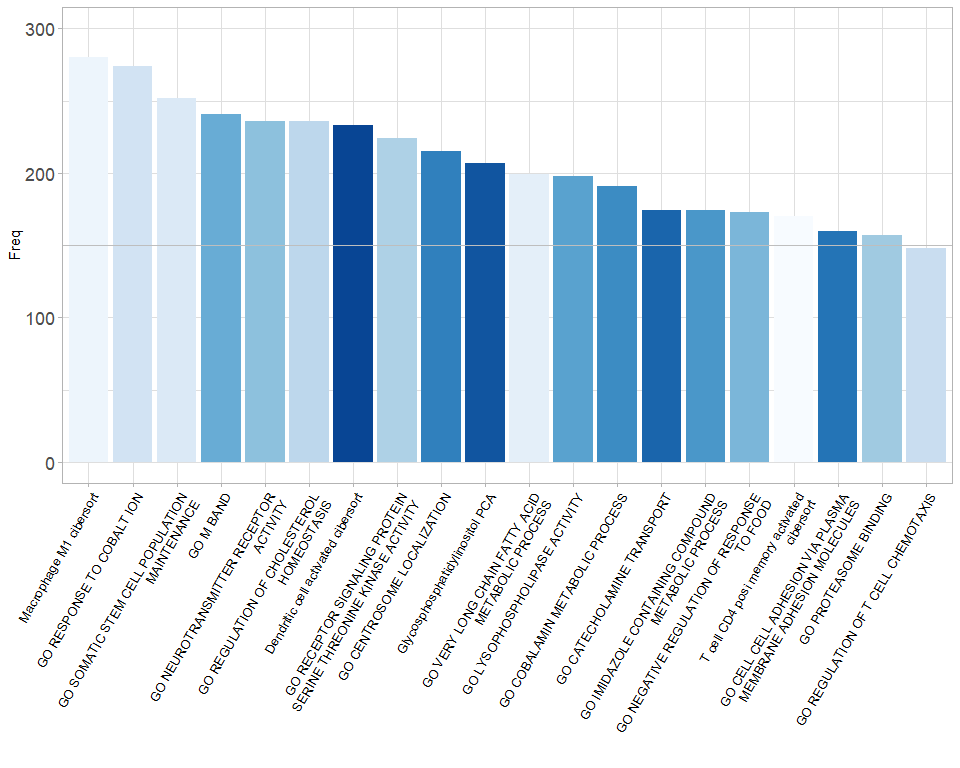
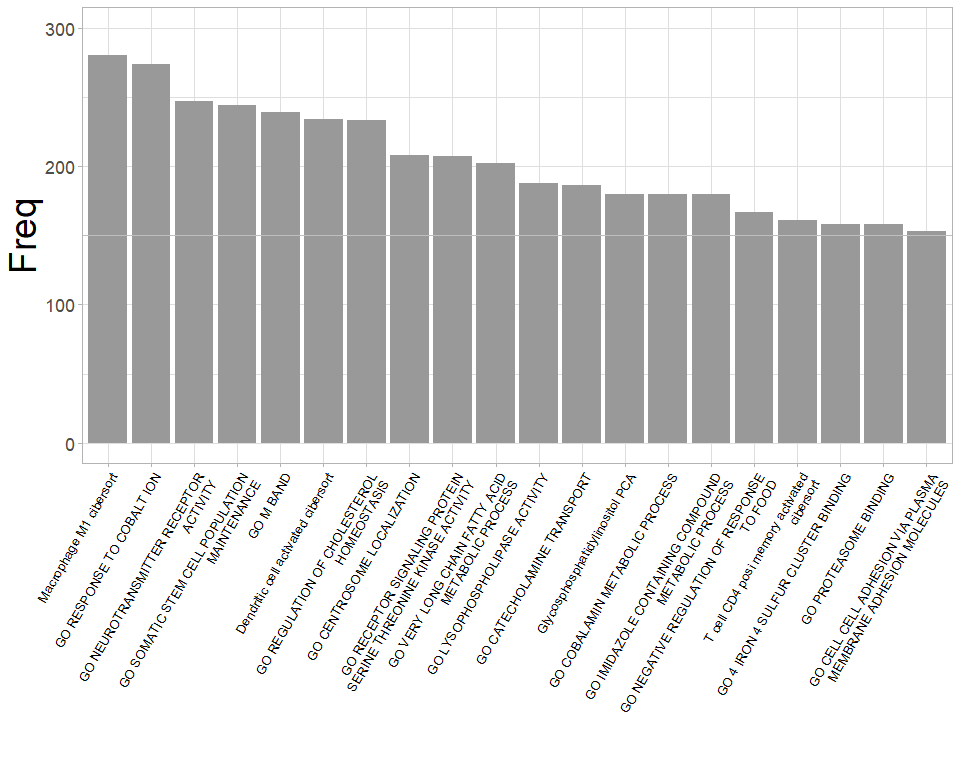
update README

diff --git a/README.md b/README.md
@@ -6,7 +6,6 @@
 The package is not yet on CRAN. You can install from Github:
 
 ``` r
-
 if (!requireNamespace("devtools", quietly = TRUE)) install.packages("devtools")
 if (!requireNamespace("Blasso", quietly = TRUE))  devtools::install_github("DongqiangZeng0808/Blasso")
 ```
@@ -14,7 +13,6 @@ if (!requireNamespace("Blasso", quietly = TRUE))  devtools::install_github("Dong
 Loading packages and main function in the package:
 
 ``` r
-
 library(Blasso) 
 help("best_predictor_cox")
 help("best_predictor_binomial")
@@ -52,15 +50,13 @@ features[1:5,1:5]
 ## Usage-1: Cox-regression model
 
 ``` r
-
 res<-best_predictor_cox(target_data = target, 
                         features = features, 
                         status = "status",
                         time = "time",
                         nfolds = 10,
                         permutation = 300,
-                        show_progress = FALSE,
-                        palette = "Greys")
+                        show_progress = FALSE)
 ```
 
 <img src="man/figuresLassoCox-1.png" width="100%" />
@@ -68,29 +64,27 @@ res<-best_predictor_cox(target_data = target,
 ``` r
 head(res$res, n = 10)
 #>                                                             res Freq
-#> 1                                       Macrophage M1 cibersort  272
-#> 2                                     GO RESPONSE TO COBALT ION  235
-#> 3                      GO REGULATION OF CHOLESTEROL HOMEOSTASIS  218
-#> 4                         GO NEUROTRANSMITTER RECEPTOR ACTIVITY  213
-#> 5            GO IMIDAZOLE CONTAINING COMPOUND METABOLIC PROCESS  198
-#> 6                            Dendritic cell activated cibersort  191
-#> 7                                Glycosphosphatidylinositol PCA  182
-#> 8  GO CELL CELL ADHESION VIA PLASMA MEMBRANE ADHESION MOLECULES  182
-#> 9                GO REGULATION OF DEFENSE RESPONSE TO BACTERIUM  164
-#> 10                   T cell CD4 posi memory activated cibersort  162
+#> 1                                       Macrophage M1 cibersort  260
+#> 2                                     GO RESPONSE TO COBALT ION  251
+#> 3                         GO NEUROTRANSMITTER RECEPTOR ACTIVITY  215
+#> 4            GO IMIDAZOLE CONTAINING COMPOUND METABOLIC PROCESS  200
+#> 5                      GO REGULATION OF CHOLESTEROL HOMEOSTASIS  195
+#> 6                            Dendritic cell activated cibersort  180
+#> 7                                Glycosphosphatidylinositol PCA  177
+#> 8  GO CELL CELL ADHESION VIA PLASMA MEMBRANE ADHESION MOLECULES  166
+#> 9                    T cell CD4 posi memory activated cibersort  151
+#> 10               GO REGULATION OF DEFENSE RESPONSE TO BACTERIUM  146
 ```
 
 ## Usage-2: Binomial model
 
 ``` r
-
 res<-best_predictor_binomial(target_data = target, 
                              features = features,
                              response = "status",
                              nfolds = 10,
                              permutation = 300,
-                             show_progress = FALSE,
-                             palette = "Blues")
+                             show_progress = FALSE)
 ```
 
 <img src="man/figuresLassoBinomial-1.png" width="100%" />
@@ -100,21 +94,21 @@ head(res$res, n = 10)
 #>                                                               res Freq
 #> 2                                         Macrophage M1 cibersort  280
 #> 3                                       GO RESPONSE TO COBALT ION  274
-#> 4                     GO SOMATIC STEM CELL POPULATION MAINTENANCE  252
-#> 5                                                       GO M BAND  241
-#> 6                           GO NEUROTRANSMITTER RECEPTOR ACTIVITY  236
-#> 7                        GO REGULATION OF CHOLESTEROL HOMEOSTASIS  236
-#> 8                              Dendritic cell activated cibersort  233
-#> 9  GO RECEPTOR SIGNALING PROTEIN SERINE THREONINE KINASE ACTIVITY  224
-#> 10                                     GO CENTROSOME LOCALIZATION  215
-#> 11                                 Glycosphosphatidylinositol PCA  207
+#> 4                           GO NEUROTRANSMITTER RECEPTOR ACTIVITY  247
+#> 5                     GO SOMATIC STEM CELL POPULATION MAINTENANCE  244
+#> 6                                                       GO M BAND  239
+#> 7                              Dendritic cell activated cibersort  234
+#> 8                        GO REGULATION OF CHOLESTEROL HOMEOSTASIS  233
+#> 9                                      GO CENTROSOME LOCALIZATION  208
+#> 10 GO RECEPTOR SIGNALING PROTEIN SERINE THREONINE KINASE ACTIVITY  207
+#> 11                GO VERY LONG CHAIN FATTY ACID METABOLIC PROCESS  202
 ```
 
 ## Session Info
 
 ``` r
 sessionInfo()
-#> R version 3.6.3 (2020-02-29)
+#> R version 4.0.4 (2021-02-15)
 #> Platform: x86_64-w64-mingw32/x64 (64-bit)
 #> Running under: Windows 10 x64 (build 19041)
 #> 
@@ -132,25 +126,26 @@ sessionInfo()
 #> 
 #> other attached packages:
 #> [1] Blasso_0.1.0       stringr_1.4.0      progress_1.2.2     RColorBrewer_1.1-2
-#> [5] survival_3.2-3     tibble_3.0.3       ggplot2_3.3.3      glmnet_4.0-2      
-#> [9] Matrix_1.2-18     
+#> [5] survival_3.2-10    tibble_3.1.0       ggplot2_3.3.3      glmnet_4.1-1      
+#> [9] Matrix_1.3-2      
 #> 
 #> loaded via a namespace (and not attached):
-#>  [1] shape_1.4.5       tidyselect_1.1.0  xfun_0.16         remotes_2.2.0    
-#>  [5] purrr_0.3.4       splines_3.6.3     lattice_0.20-41   generics_0.1.0   
-#>  [9] colorspace_1.4-1  vctrs_0.3.2       testthat_2.3.2    usethis_2.0.0    
-#> [13] htmltools_0.5.0   yaml_2.2.1        rlang_0.4.8       pkgbuild_1.2.0   
-#> [17] pillar_1.4.7      glue_1.4.2        withr_2.3.0       sessioninfo_1.1.1
-#> [21] foreach_1.5.1     lifecycle_0.2.0   munsell_0.5.0     gtable_0.3.0     
-#> [25] devtools_2.3.2    codetools_0.2-18  memoise_1.1.0     evaluate_0.14    
-#> [29] labeling_0.4.2    knitr_1.30        callr_3.5.1       ps_1.5.0         
-#> [33] fansi_0.4.1       scales_1.1.1      desc_1.2.0        pkgload_1.1.0    
-#> [37] farver_2.0.3      fs_1.4.2          hms_0.5.3         digest_0.6.25    
-#> [41] stringi_1.5.3     processx_3.4.5    dplyr_1.0.2       grid_3.6.3       
-#> [45] rprojroot_2.0.2   cli_2.2.0         tools_3.6.3       magrittr_2.0.1   
-#> [49] crayon_1.3.4      pkgconfig_2.0.3   ellipsis_0.3.1    prettyunits_1.1.1
-#> [53] assertthat_0.2.1  rmarkdown_2.6     iterators_1.0.13  R6_2.5.0         
-#> [57] compiler_3.6.3
+#>  [1] lattice_0.20-41   prettyunits_1.1.1 ps_1.6.0          assertthat_0.2.1 
+#>  [5] rprojroot_2.0.2   digest_0.6.27     foreach_1.5.1     utf8_1.2.1       
+#>  [9] R6_2.5.0          evaluate_0.14     highr_0.8         pillar_1.5.1     
+#> [13] rlang_0.4.10      callr_3.5.1       rmarkdown_2.7     desc_1.3.0       
+#> [17] labeling_0.4.2    devtools_2.3.2    splines_4.0.4     munsell_0.5.0    
+#> [21] compiler_4.0.4    xfun_0.22         pkgconfig_2.0.3   pkgbuild_1.2.0   
+#> [25] shape_1.4.5       htmltools_0.5.1.1 tidyselect_1.1.0  codetools_0.2-18 
+#> [29] fansi_0.4.2       crayon_1.4.1      dplyr_1.0.5       withr_2.4.1      
+#> [33] grid_4.0.4        gtable_0.3.0      lifecycle_1.0.0   DBI_1.1.1        
+#> [37] magrittr_2.0.1    scales_1.1.1      cli_2.4.0         stringi_1.5.3    
+#> [41] cachem_1.0.4      farver_2.1.0      fs_1.5.0          remotes_2.3.0    
+#> [45] testthat_3.0.2    ellipsis_0.3.1    vctrs_0.3.7       generics_0.1.0   
+#> [49] iterators_1.0.13  tools_4.0.4       glue_1.4.2        purrr_0.3.4      
+#> [53] hms_1.0.0         processx_3.4.5    pkgload_1.2.0     fastmap_1.1.0    
+#> [57] yaml_2.2.1        colorspace_2.0-0  sessioninfo_1.1.1 memoise_2.0.0    
+#> [61] knitr_1.31        usethis_2.0.1
 ```
 
 ## References
@@ -161,6 +156,6 @@ immunophenotype and predicts anti-PD-L1 response of urothelial cancer.
 Theranostics 2020; 10(15):7002-7014.
 [doi:10.7150/thno.46176](http://www.thno.org/v10p7002.html)
 
------
+------------------------------------------------------------------------
 
 Contact: E-mail any questions to <dongqiangzeng0808@gmail.com>
